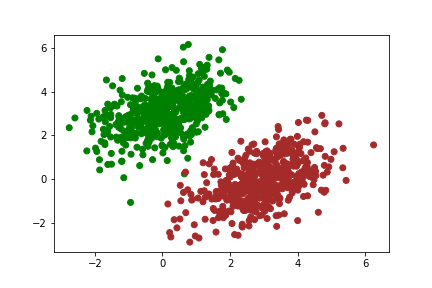
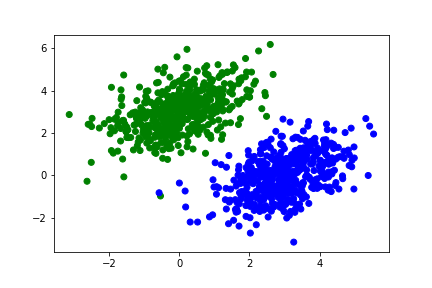
Plot the model's first ten predictions

diff --git a/deep_learning_python/ch3/code/linear_classifier.py b/deep_learning_python/ch3/code/linear_classifier.py
@@ -27,11 +27,11 @@ labels = np.vstack(
 )
 
 # %% Plot the two classes
-# Class A is represented by green dots, and class B is represented by brown dots
+# Class A is represented by green dots, and class B is represented by blue dots
 plt.scatter(
     inputs[:, 0],
     inputs[:, 1],
-    c=["green" if label == 0 else "brown" for label in labels],
+    c=["green" if label == 0 else "blue" for label in labels],
 )
 plt.savefig("../images/linear_classifier_data.png", transparent=True)
 plt.show()
@@ -67,15 +67,22 @@ def training_step(inputs, targets, learning_rate: float = 0.1) -> float:
 
 # %% Create the batch training loop
 num_epochs = 50
+predictions_all = []
+predictions_first_10 = []
+
 for step in range(num_epochs):
     step_loss = training_step(inputs, labels)
+    if step < 10:
+        predictions_first_10.append(model(inputs))
     if step % 5 == 0:
         print(f"Step {step}: Loss = {step_loss}")
+        # Save every 5th prediction
+        predictions_all.append(model(inputs))
 
-# Retrieve the model's predictions
+# Retrieve the model's final predictions
 predictions = model(inputs)
 
-# %% Plot the line separating the two classes
+# %% Plot the line separating the two classes based on the model's final predictions
 # The line is represented by the equation y = -W[0]/W[1] * x - (b/W[1])
 x = np.linspace(-2, 6, 100)
 y = -W[0] / W[1] * x - (0.5 - b) / W[1]
@@ -83,8 +90,20 @@ plt.plot(x, y, c="red")
 plt.scatter(
     inputs[:, 0],
     inputs[:, 1],
-    c=["green" if pred else "brown" for pred in predictions[:, 0] < 0.5],
+    c=["green" if pred else "blue" for pred in predictions[:, 0] < 0.5],
 )
+
+# %% Plot the line for predictions in predictions_all, each prediction is a subplot
+plt.figure(0)
+for i, prediction in enumerate(predictions_first_10):
+    ax = plt.subplot(2, 5, i + 1)
+    ax.scatter(
+        inputs[:, 0],
+        inputs[:, 1],
+        c=["green" if pred else "blue" for pred in prediction[:, 0] < 0.5],
+    )
+    # ax.plot(x, y, c="red")
+plt.show()
 
 # %% Train the model for another 50 epochs
 for step in range(num_epochs):
@@ -101,5 +120,5 @@ plt.plot(x, y, c="red")
 plt.scatter(
     inputs[:, 0],
     inputs[:, 1],
-    c=["green" if pred else "brown" for pred in predictions[:, 0] < 0.5],
+    c=["green" if pred else "blue" for pred in predictions[:, 0] < 0.5],
 )
